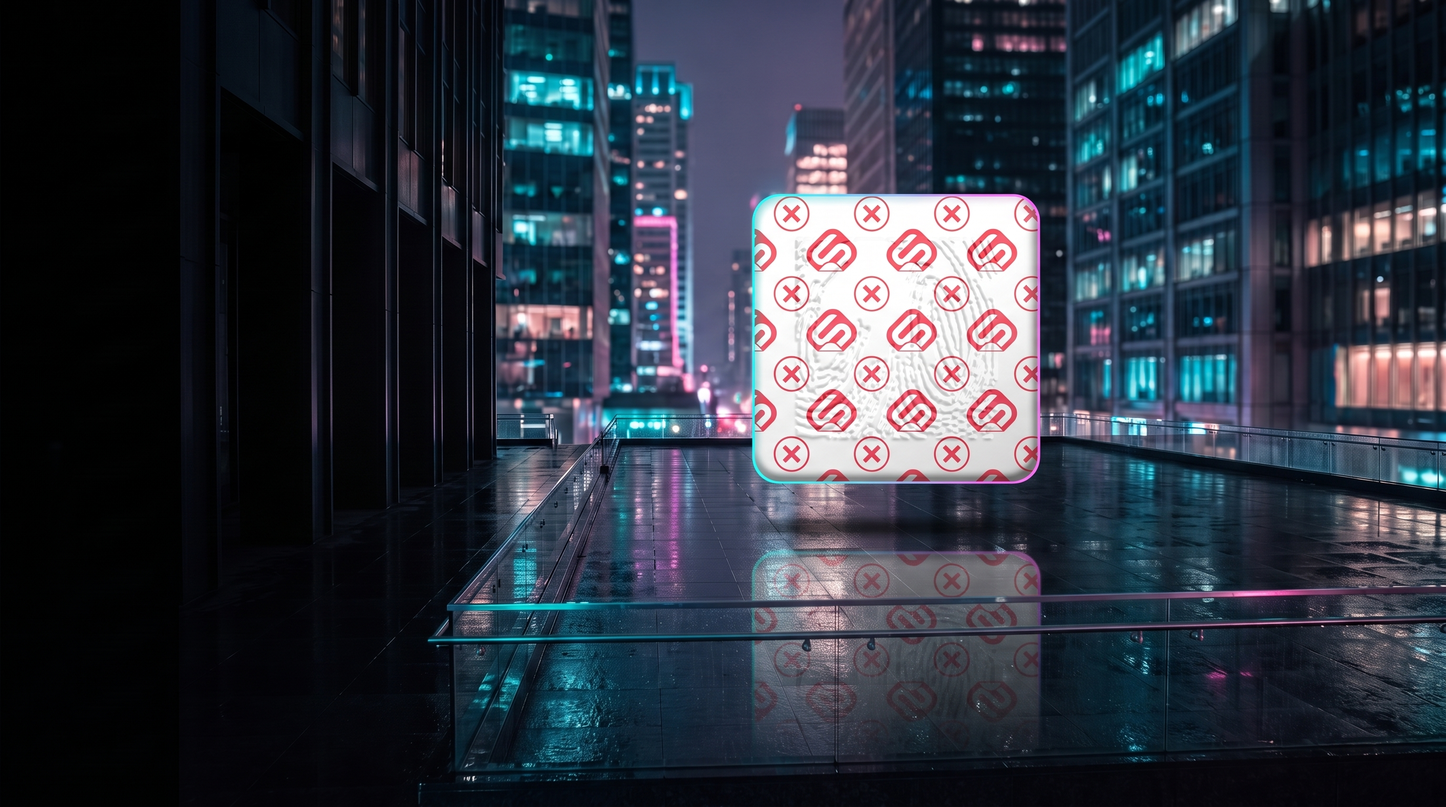
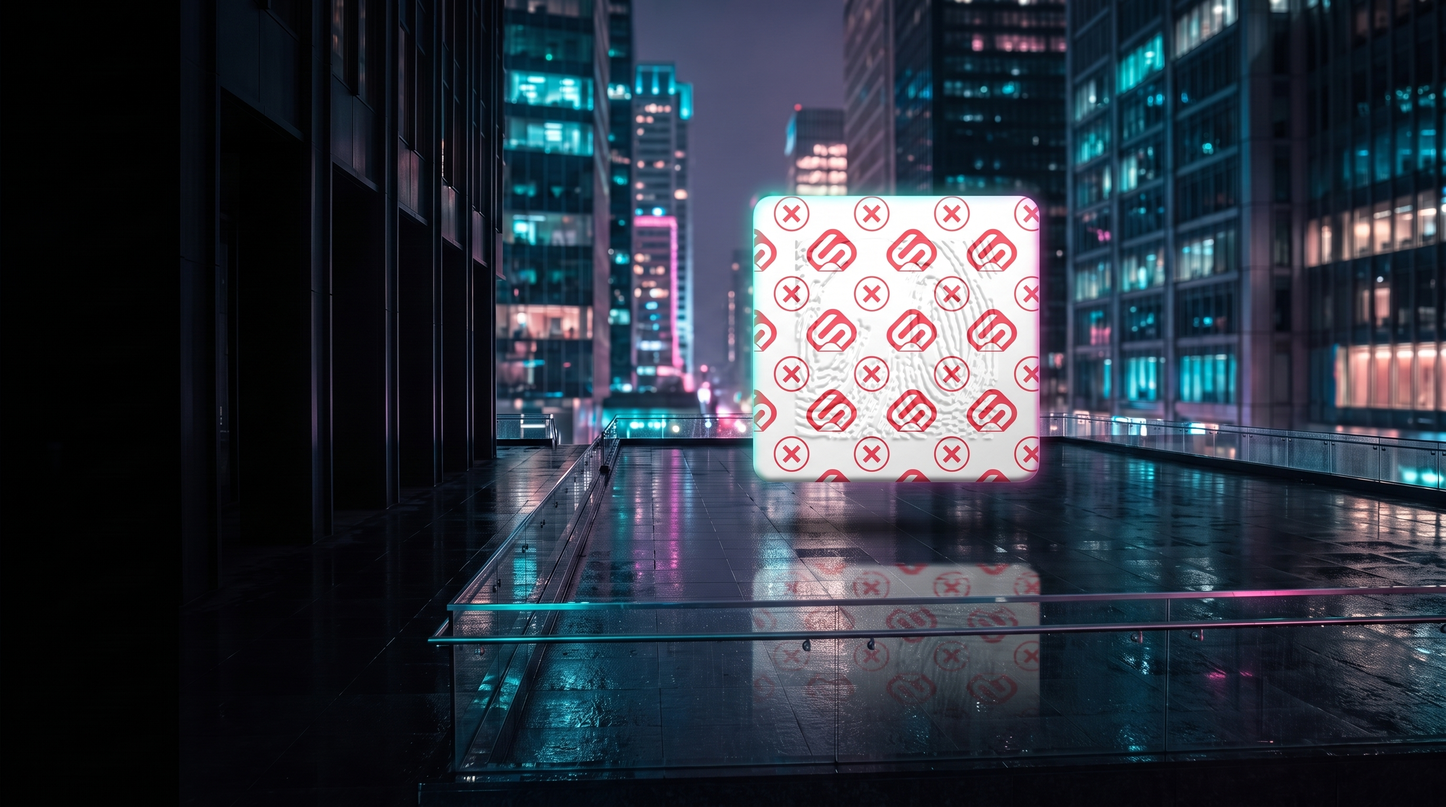
feat(income-stack): restore NoPeel ridges then thicken era seal
Recompose from the official Freedom still first, then Gemini-add bevel, rim light, and contact shadow without flattening the fingerprint gel.

diff --git a/src/data/chipImagery.ts b/src/data/chipImagery.ts
@@ -483,14 +483,14 @@ export function buildCompoundingScreenMarkEditPrompt(): string {
   ].join(" ");
 }
 
-/** Edit the era opener so the composited Freedom seal reads more 3D — lighting only. */
+/** Edit the era opener so the composited Freedom seal reads more 3D — lighting + thickness. */
 export function buildEraPatchDepthEditPrompt(): string {
   return [
     "The first attached photograph is the locked master frame — do not reframe, crop, zoom, tilt, or change camera angle.",
     "Keep the exact neon night city, wet terrace, glass rail, skyline, depth of field, and composition identical.",
     "The white rounded-square Freedom seal already in the scene must stay in the same place and size.",
-    "The second attached image is the exact Freedom seal identity — white face, red diamond-S and circle-X print, clear fingerprint gel center. Keep every printed mark identical. Do not redraw, restyle, recolor, or invent new lettering. Ignore any watermark or black backdrop on the second image.",
-    "Lighting edit only on that seal: give it subtle physical thickness — soft bevel on the rounded edges, a thin cyan-magenta neon rim light catching the top and side edges, a soft contact shadow and faint wet-floor reflection under the seal so it floats just above the terrace. Keep the white face opaque white.",
+    "The second attached image is the exact Freedom seal identity reference. Restore the seal face from that second image exactly: opaque white rounded square, red diamond-S and circle-X print on the exact grid, and the clear embossed fingerprint gel in the center with every ridge, highlight, and shadow identical to the second image. Do not flatten, blur, simplify, or invent new ridge patterns. Do not redraw, restyle, recolor, or invent new lettering. Ignore any watermark or black backdrop on the second image.",
+    "Then add physical depth to that exact seal only: visible thickness / slight extrusion on the rounded edges, a soft bevel catching light, a thin cyan-magenta neon rim light on the top and side edges, plus a soft contact shadow and faint wet-floor reflection under the seal so it floats just above the terrace.",
     "Change nothing else in the photograph. No people, no extra products, no readable text.",
     OMNI_TEXT_BAN,
   ].join(" ");

diff --git a/src/data/chipImagery.test.ts b/src/data/chipImagery.test.ts
@@ -878,9 +878,10 @@ describe("plate retakes", () => {
     const prompt = buildEraPatchDepthEditPrompt();
     expect(prompt).toMatch(/locked master|do not reframe/i);
     expect(prompt).toMatch(/Freedom seal|fingerprint/i);
-    expect(prompt).toMatch(/do not redraw/i);
-    expect(prompt).toMatch(/bevel|rim light|contact shadow/i);
-    expect(prompt).toMatch(/white face|opaque white/i);
+    expect(prompt).toMatch(/ridge/i);
+    expect(prompt).toMatch(/do not redraw|Restore the seal face/i);
+    expect(prompt).toMatch(/bevel|rim light|contact shadow|thickness|extrusion/i);
+    expect(prompt).toMatch(/white|opaque white/i);
     expect(prompt).toContain(OMNI_TEXT_BAN);
   });
 
